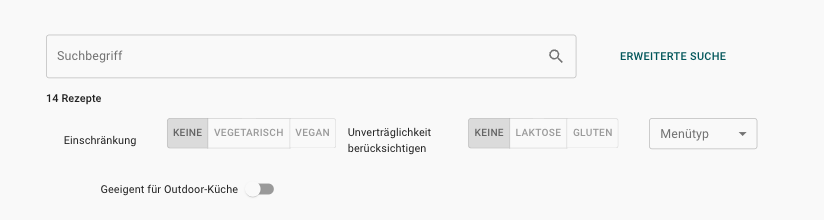
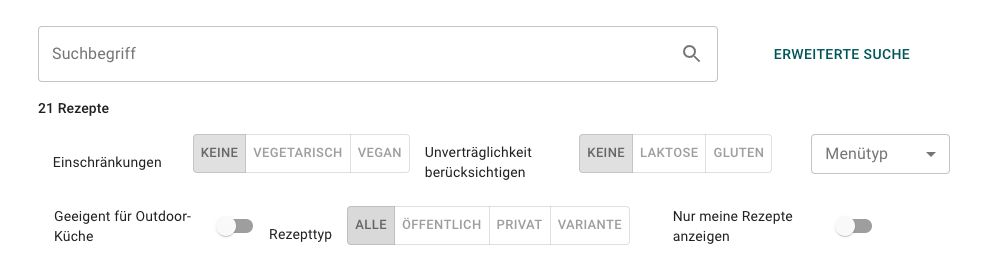
Anpassung der Erweiterten Rezeptsuche

diff --git a/docs/recipe/recipes overview.md b/docs/recipe/recipes overview.md
@@ -47,6 +47,14 @@ Suchst du nach einer passenden Beilage oder nach einem Zvieri? Mit der Einschrä
 
 Mit diesem Schalter kannst du dir Rezepte anzeigen lassen, die sich auch draussen zubereiten lassen (zum Beispiel wird hier kein Ofen benötigt).
 
+### Rezepttyp
+
+Hier kannst du bestimmen, welche Art von Rezepten angezeigt werden. Willst du nur die öffentlichen oder bloss deine Privaten? Beachte, dass die Schaltfläche `Variante` nur im Menüplan angezeigt wird.
+
+### Nur meine Rezepte anzeigen
+
+Aktivierst du diesen Schalter, werden dir nur Rezepte angezeigt, die von dir erfasst wurden.
+
 ## Aufbau Karte
 
 Auf der Karte siehst du folgende Informationen:
